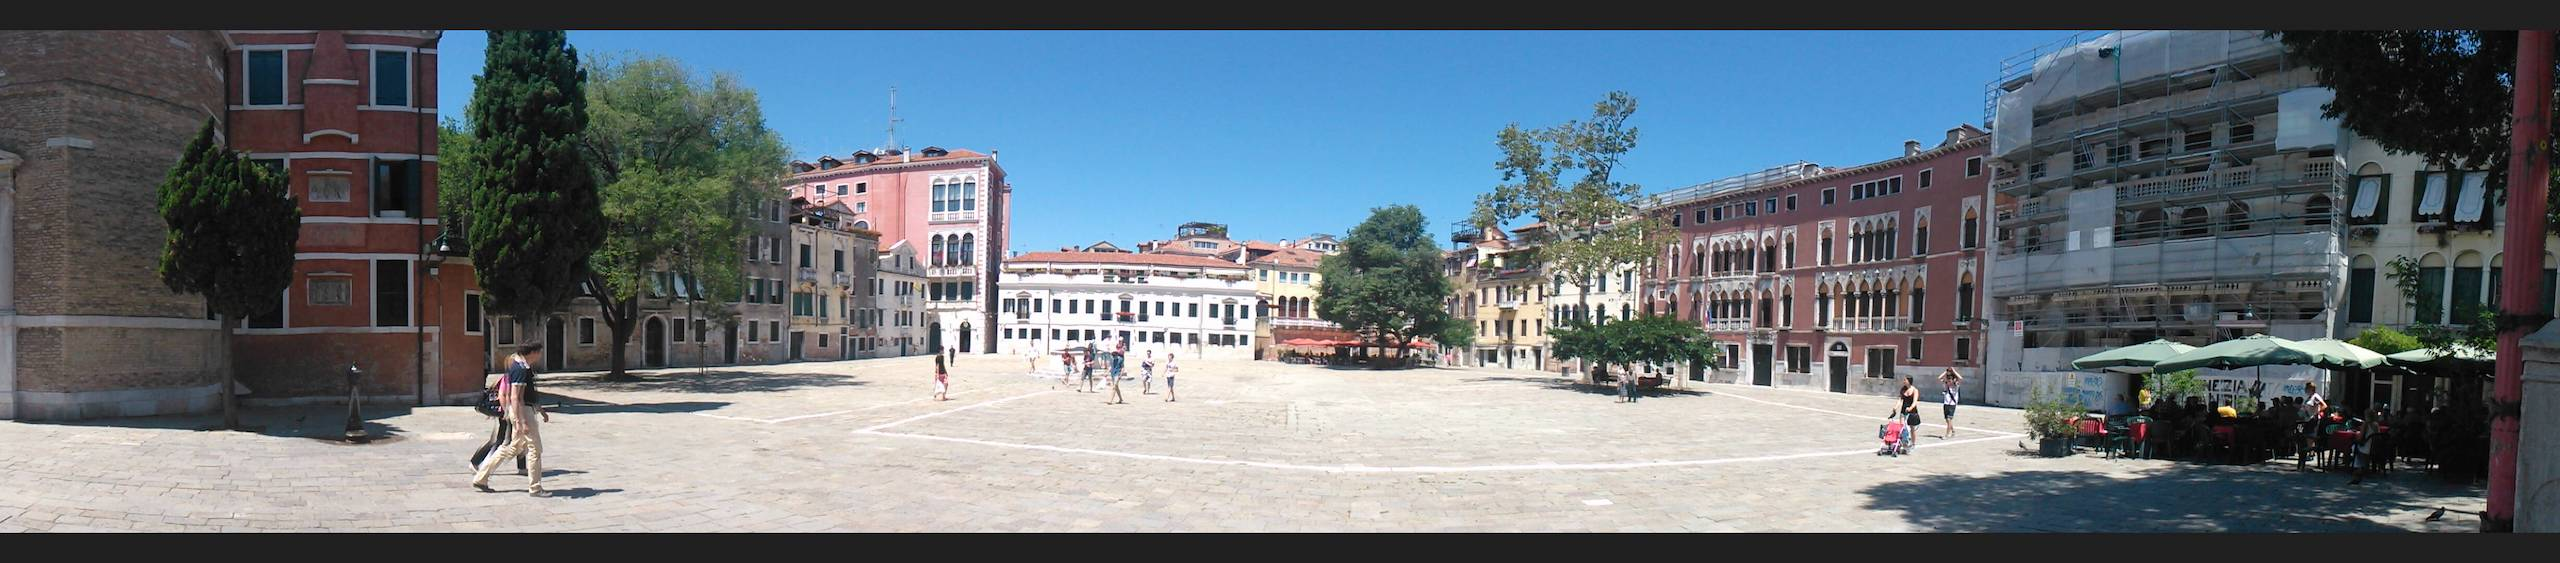
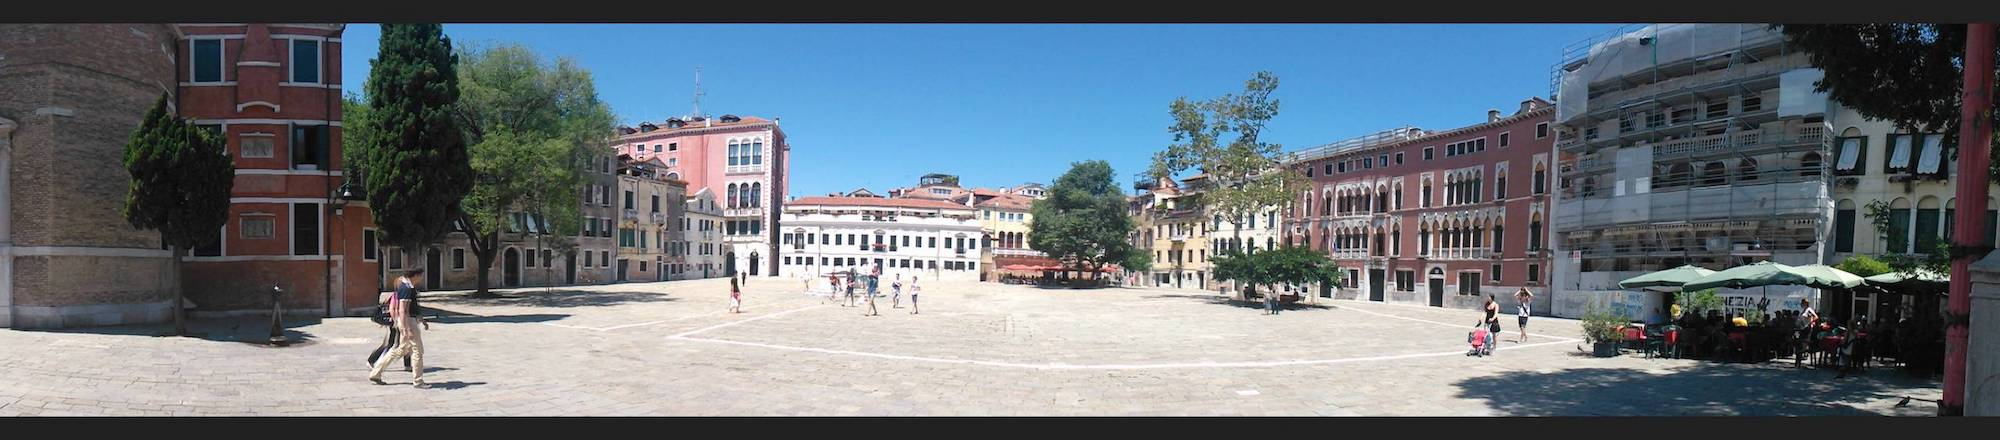
optomized img
optomized img

diff --git a/index.html b/index.html
@@ -31,22 +31,22 @@
 		<h2>Featured Work</h2>
 		<div class="container">
 			<div class="flex-item">
-				<img class="photo" src="img/img1.jpg" alt="Chiesa di Santa Maria del Rosario (Gesauti)">
+				<img class="photo" src="img/img1o.jpg" alt="Chiesa di Santa Maria del Rosario (Gesauti)">
 				<h4>Chiesa di Santa Maria del Rosario (Gesauti)</h4>
 			<p>The church of Gesuati, the biggest conventual complex of the XVIII century in Venice.</p>
 			</div>
 			<div class="flex-item">
-				<img class="photo" src="img/img3.jpg" alt="Sestiere San Polo">
+				<img class="photo" src="img/img3o.jpg" alt="Sestiere San Polo">
 				<h4>Sestiere San Polo</h4>
 				<p>San Polo is the smallest of the six sestieri of Venice. It is one of the oldest parts of the city.</p>
 			</div>
 			<div class="flex-item">
-				<img class="photo" src="img/img4.jpg" alt="The Rialto Bridge">
+				<img class="photo" src="img/img4o.jpg" alt="The Rialto Bridge">
 				<h4>The Rialto Bridge</h4>
 				<p>The Rialto Bridge (Ponte di Rialto) is the oldest of the four bridges spanning the Grand Canal in Venice.</p>
 			</div>
 			<div class="flex-item">
-				<img class="photo" src="img/img5.jpg" alt="Accademia bridge">
+				<img class="photo" src="img/img5o.jpg" alt="Accademia bridge">
 				<h4>Accademia bridge</h4>
 				<p>The Accademia bridge (Ponte dell'Accademia) is one of only four bridges to span the Grand Canal in Venice.</p>
 			</div>
@@ -56,9 +56,11 @@
 
 <!-- footer -->
 	<footer class="footer">
-		<a href="https://linkedin.com/in/artur-sokolowski"><img src="img/linkedin.png" alt="linkedin"></a>
-		<a href="https://github.com/Artur83"><img src="img/github.png" alt="github"></a>
-		<a href="https://twitter.com/Art_Sokolowski"><img src="img/twitter.png" alt="twitter"></a>
+		<a href="https://linkedin.com/in/artur-sokolowski"><img class="social" src="img/linkedin.svg" alt="linkedin"></a>
+		<a href="https://github.com/Artur83"><img class="social" src="img/github.svg" alt="github"></a>
+		<a href="https://twitter.com/Art_Sokolowski"><img class="social" src="img/twitter.svg" alt="twitter"></a>
+		<a href="mailto:art.sokolowski@gmail.com?Subject=Message%20from%20website"><img class="social" src="img/mail.svg" alt="mail"></a>
+		<p>Created by Art for Udacity - Portfolio Site Project</p>
 	</footer>
 
 </body>

diff --git a/css/main.css b/css/main.css
@@ -1,9 +1,9 @@
 /* CSS */
 
 body {
-/*	width: 100%;*/
-/*	height: 100%;*/
-	margin: 10px;
+	max-width: 100%;
+	max-width: 1000px;
+	margin: auto;
 	padding: 0;
 	background: #fff;
 	color: #02b3e4;
@@ -15,6 +15,7 @@ body {
 
 .header {
 	min-height: 120px;
+	margin: 0;
 	display: flex;
 	justify-content: space-between;
 	border-bottom: solid 2px #02b3e4;
@@ -65,7 +66,7 @@ h5 {
 .container {
 	padding: 0;
 	margin: 0;
-	width: 100%;
+	max-width: 100%;
 	height: auto;
 	display: flex;
 	flex-flow: row wrap;
@@ -74,8 +75,8 @@ h5 {
 
 .flex-item {
 	height: auto;
-	width: 300px;
-	margin: 0 15px 25px 0;
+	width: auto;
+	margin: 10px 25px 15px 10px;
 	padding: 0;
 	box-shadow: 10px 10px 10px 5px rgba(125,151,173,0.4);
 	justify-content: space-around;
@@ -101,17 +102,24 @@ h5 {
 /* footer */
 .footer {
 	text-align: center;
-	margin-bottom: 20px;
+	margin: 20px 0;
+	color: #7d97ad;
+	font-size: 12px;
 }
 
+img.social {
+	width: 48px;
+	height: 48px;
+}
 
-/* tablet */
-@media screen and (min-width: 1100px) {
-	body {
-		margin: 10px 50px;
-	}
-	.flex-item p {
-		font-size: 12px;
+@media screen and (min-width: 500px) {
+	.flex-item {
+		width: calc((100% - 70px) / 2);
 	}
 }
 
+@media screen and (min-width: 800px) {
+	.flex-item {
+		width: calc((100% - 105px) / 3);
+	}
+}
